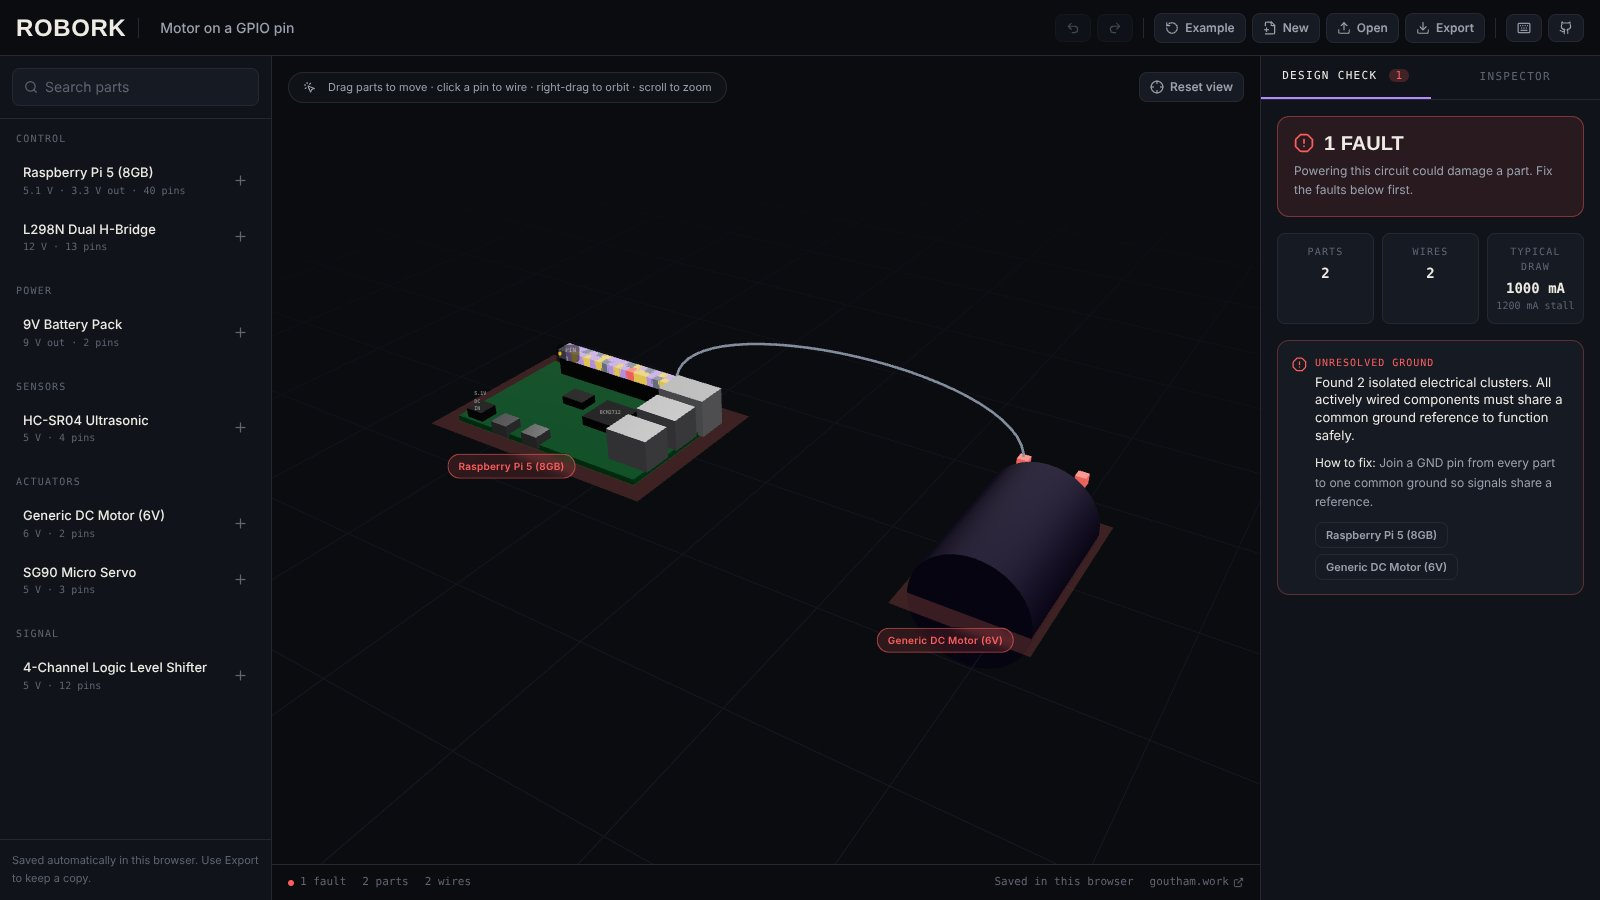
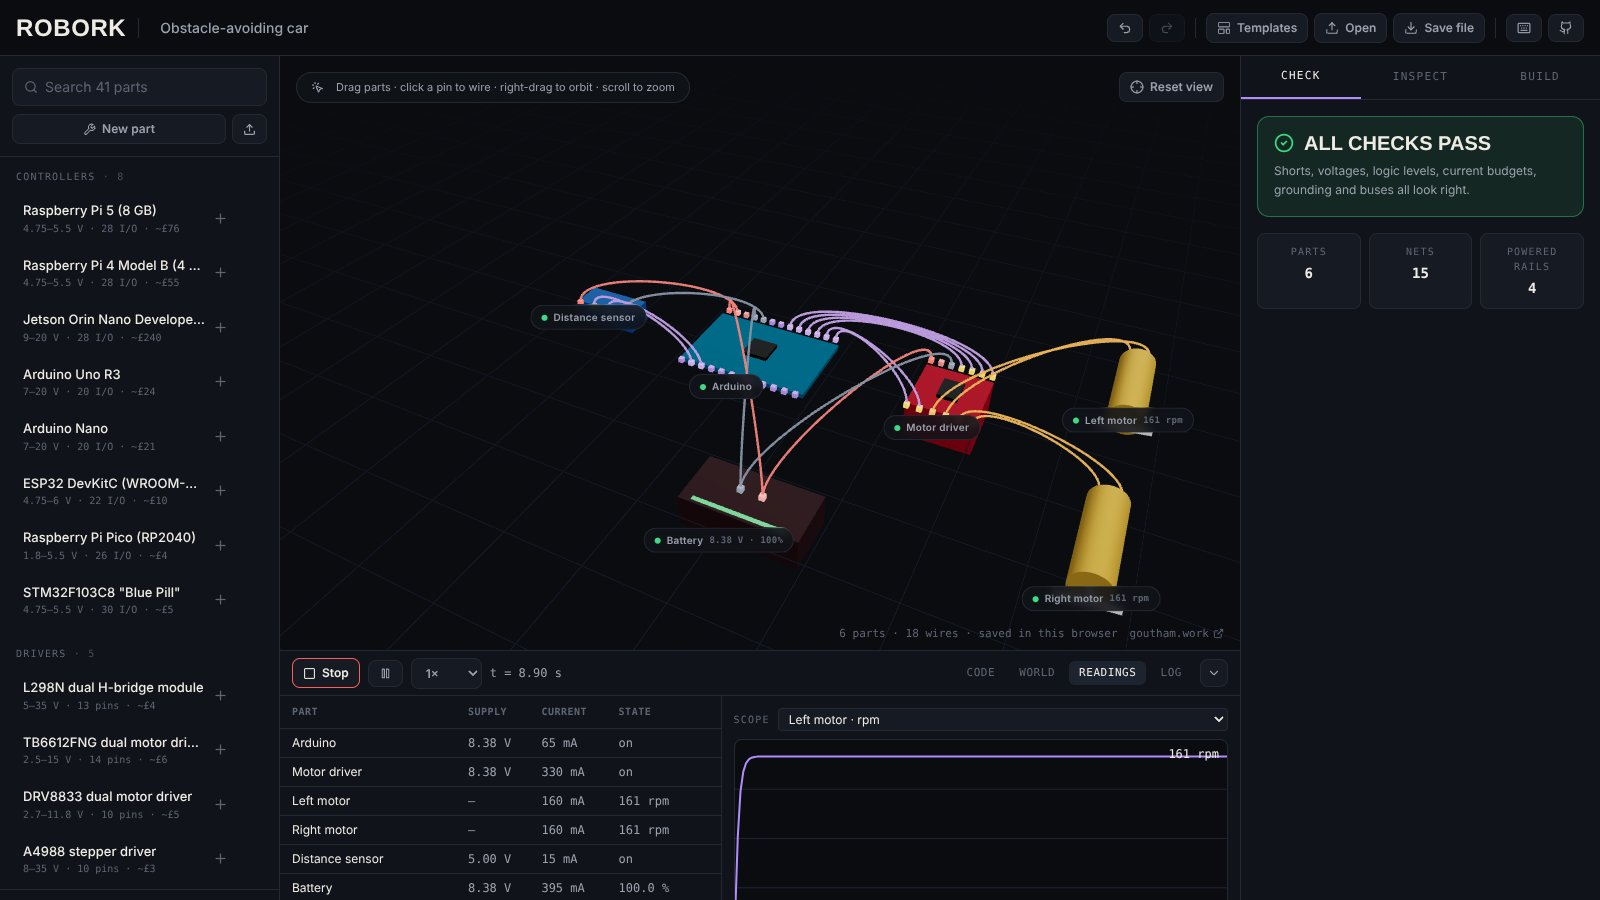
Update Robork to 2.0: parts library, design check, simulator, readiness

diff --git a/index.html b/index.html
@@ -24,7 +24,7 @@
 <link rel="manifest" href="site.webmanifest">
 <link rel="preload" href="fonts/big-shoulders-display-latin-wght-normal.woff2" as="font" type="font/woff2" crossorigin>
 <link rel="preload" href="fonts/schibsted-grotesk-latin-wght-normal.woff2" as="font" type="font/woff2" crossorigin>
-<link rel="stylesheet" href="css/styles.css?v=20261013">
+<link rel="stylesheet" href="css/styles.css?v=20261014">
 <script type="application/ld+json">
 {"@context":"https://schema.org","@type":"Person","name":"Goutham Satheesh","url":"https://goutham.work/","jobTitle":"BEng (Hons) Artificial Intelligence student","alumniOf":{"@type":"CollegeOrUniversity","name":"Ulster University"},"address":{"@type":"PostalAddress","addressLocality":"Derry~Londonderry","addressCountry":"GB"},"sameAs":["https://www.linkedin.com/in/gouthmn","https://github.com/GOUTHMNN"],"knowsAbout":["Artificial intelligence","Machine learning","Data science","Full-stack development","Python"]}
 </script>
@@ -181,36 +181,36 @@
       <div class="stop-gap" data-stop="2" aria-hidden="true"><span class="eyebrow">Stop 03 / 04</span><b>Robork</b></div>
       <article class="project reveal" data-stop="2" aria-labelledby="p3">
         <div class="project__lead">
-          <p class="project__meta"><span>2026</span><span>Solo build · TypeScript &amp; Rust</span></p>
+          <p class="project__meta"><span>2026</span><span>Solo build · TypeScript</span></p>
           <h3 id="p3" class="project__title">Robork</h3>
-          <p class="project__summary">A browser-based digital twin for prototyping robots. Wire a Raspberry Pi 5 to motors and sensors in 3D, and it catches the faults that would fry real hardware.</p>
+          <p class="project__summary">A virtual bench for robots. Design from real parts, catch the wiring mistakes that would fry hardware, run your control code against a simulated world, and only then buy the parts.</p>
           <ul class="chips" aria-label="Highlights">
             <li class="chip chip--win">Live in your browser</li>
-            <li class="chip">7 parts with real electrical limits</li>
-            <li class="chip">Deterministic Rust kernel</li>
+            <li class="chip">41 real parts, any chip via datasheet</li>
+            <li class="chip">89 tests gate every deploy</li>
           </ul>
-          <p class="project__links"><a href="https://robork.goutham.work" target="_blank" rel="noopener">Open the editor <span aria-hidden="true">↗</span></a><a href="https://github.com/GOUTHMNN/robork" target="_blank" rel="noopener">Read the code on GitHub <span aria-hidden="true">↗</span></a></p>
+          <p class="project__links"><a href="https://robork.goutham.work" target="_blank" rel="noopener">Open the bench <span aria-hidden="true">↗</span></a><a href="https://github.com/GOUTHMNN/robork" target="_blank" rel="noopener">Read the code on GitHub <span aria-hidden="true">↗</span></a></p>
         </div>
         <figure class="viz viz--flow">
-          <figcaption class="viz__title">What happens when you add a wire</figcaption>
+          <figcaption class="viz__title">From idea to "ready to buy"</figcaption>
           <ol class="flow">
-            <li><b>You wire two pins</b><span>In the 3D editor, with undo and autosave</span></li>
-            <li><b>Design check</b><span>Voltage, current, output conflicts, common ground</span></li>
-            <li class="is-key"><b>Fix is dry-run first</b><span>A proposed patch must clear the validator before it's offered</span></li>
-            <li><b>One click applies it</b><span>For example, a level shifter wired in for 5&nbsp;V into a 3.3&nbsp;V pin</span></li>
+            <li><b>Design</b><span>Arduino, ESP32, Pico, STM32, Pi or Jetson, plus drivers, motors, sensors and power</span></li>
+            <li><b>Design check</b><span>16 rules: shorts, voltages, logic levels, current budgets, grounds, buses</span></li>
+            <li class="is-key"><b>Run it</b><span>Your code drives motors, servos and sensors in a 1&nbsp;ms simulation</span></li>
+            <li><b>Ready to buy</b><span>Only after a clean check and a clean run, with a priced parts list</span></li>
           </ol>
         </figure>
         <figure class="photo photo--wide photo--shot">
-          <img src="img/robork-1600.jpg" srcset="img/robork-800.jpg 800w, img/robork-1600.jpg 1600w" sizes="(max-width: 1180px) 100vw, 1100px" width="1600" height="900" alt="The Robork editor: a parts library on the left, a Raspberry Pi 5 wired to a DC motor in the 3D workspace, and the design check panel flagging a missing common ground." loading="lazy" decoding="async">
-          <figcaption>The live editor running its built-in example: a motor wired straight to a Pi, flagged before anything is powered.</figcaption>
+          <img src="img/robork-1600.jpg" srcset="img/robork-800.jpg 800w, img/robork-1600.jpg 1600w" sizes="(max-width: 1180px) 100vw, 1100px" width="1600" height="900" alt="The Robork bench running an obstacle-avoiding car: an Arduino, motor driver, two motors, a distance sensor and a battery in 3D, with live motor speeds, currents and a scope plot below." loading="lazy" decoding="async">
+          <figcaption>The obstacle-avoiding car template running live: motor speed, current draw and battery voltage update every tick.</figcaption>
         </figure>
         <div class="case">
-          <div><h4>The problem</h4><p>Beginners learn robotics by wiring real boards and finding out what's wrong when something burns out. That's slow, expensive and puts people off.</p></div>
-          <div><h4>What I built</h4><p>A React Three Fiber editor where every part carries its real pin voltages and current limits. A validator runs on every change, and a rule-based copilot proposes fixes it has already tested. Underneath sits a Rust simulation kernel on a fixed 1&nbsp;ms tick, compiled for WebAssembly.</p></div>
-          <div><h4>The result</h4><p>A working editor anyone can open at robork.goutham.work, with a parts library, inspector, undo, autosave and project export. The kernel's tests prove two runs produce bit-for-bit identical state.</p></div>
-          <div><h4>What I learned</h4><p>An automatic fix you haven't checked is just a new bug. Every patch has to pass the same validator as the user's own wiring. The README says plainly what isn't built yet.</p></div>
+          <div><h4>The problem</h4><p>Robotics ideas get tested by buying parts and finding out what's wrong when something burns out. That's slow and expensive, and it puts people off.</p></div>
+          <div><h4>What I built</h4><p>An open part format, so any chip can be described from its datasheet. A net-based electrical model that checks every connection against real limits, with fixes it re-tests before offering. A deterministic simulator for batteries, drivers, motors, servos and sensors, running Arduino-style code in a Web Worker.</p></div>
+          <div><h4>The result</h4><p>Live at robork.goutham.work, with templates, a part builder, share links and a printable report. Every rule, model and template is covered by 89 tests that run before each deploy.</p></div>
+          <div><h4>What I learned</h4><p>A checker that cries wolf gets ignored. The first version flagged every motor as ungrounded, so I rebuilt the model around nets and power instead of pin-pair rules, and wrote tests for what it must not flag.</p></div>
         </div>
-        <p class="tags">TypeScript · React · React Three Fiber · Zustand · Rust · WebAssembly</p>
+        <p class="tags">TypeScript · React · React Three Fiber · Zustand · Web Workers · Vitest</p>
       </article>
 
       <!-- Budha PI -->
@@ -465,8 +465,8 @@
 </dialog>
 
 <script src="js/vendor/three.min.js" defer></script>
-<script src="js/scene.js?v=20261013" defer></script>
-<script src="js/pitwall.js?v=20261013" defer></script>
-<script src="js/main.js?v=20261013" defer></script>
+<script src="js/scene.js?v=20261014" defer></script>
+<script src="js/pitwall.js?v=20261014" defer></script>
+<script src="js/main.js?v=20261014" defer></script>
 </body>
 </html>
